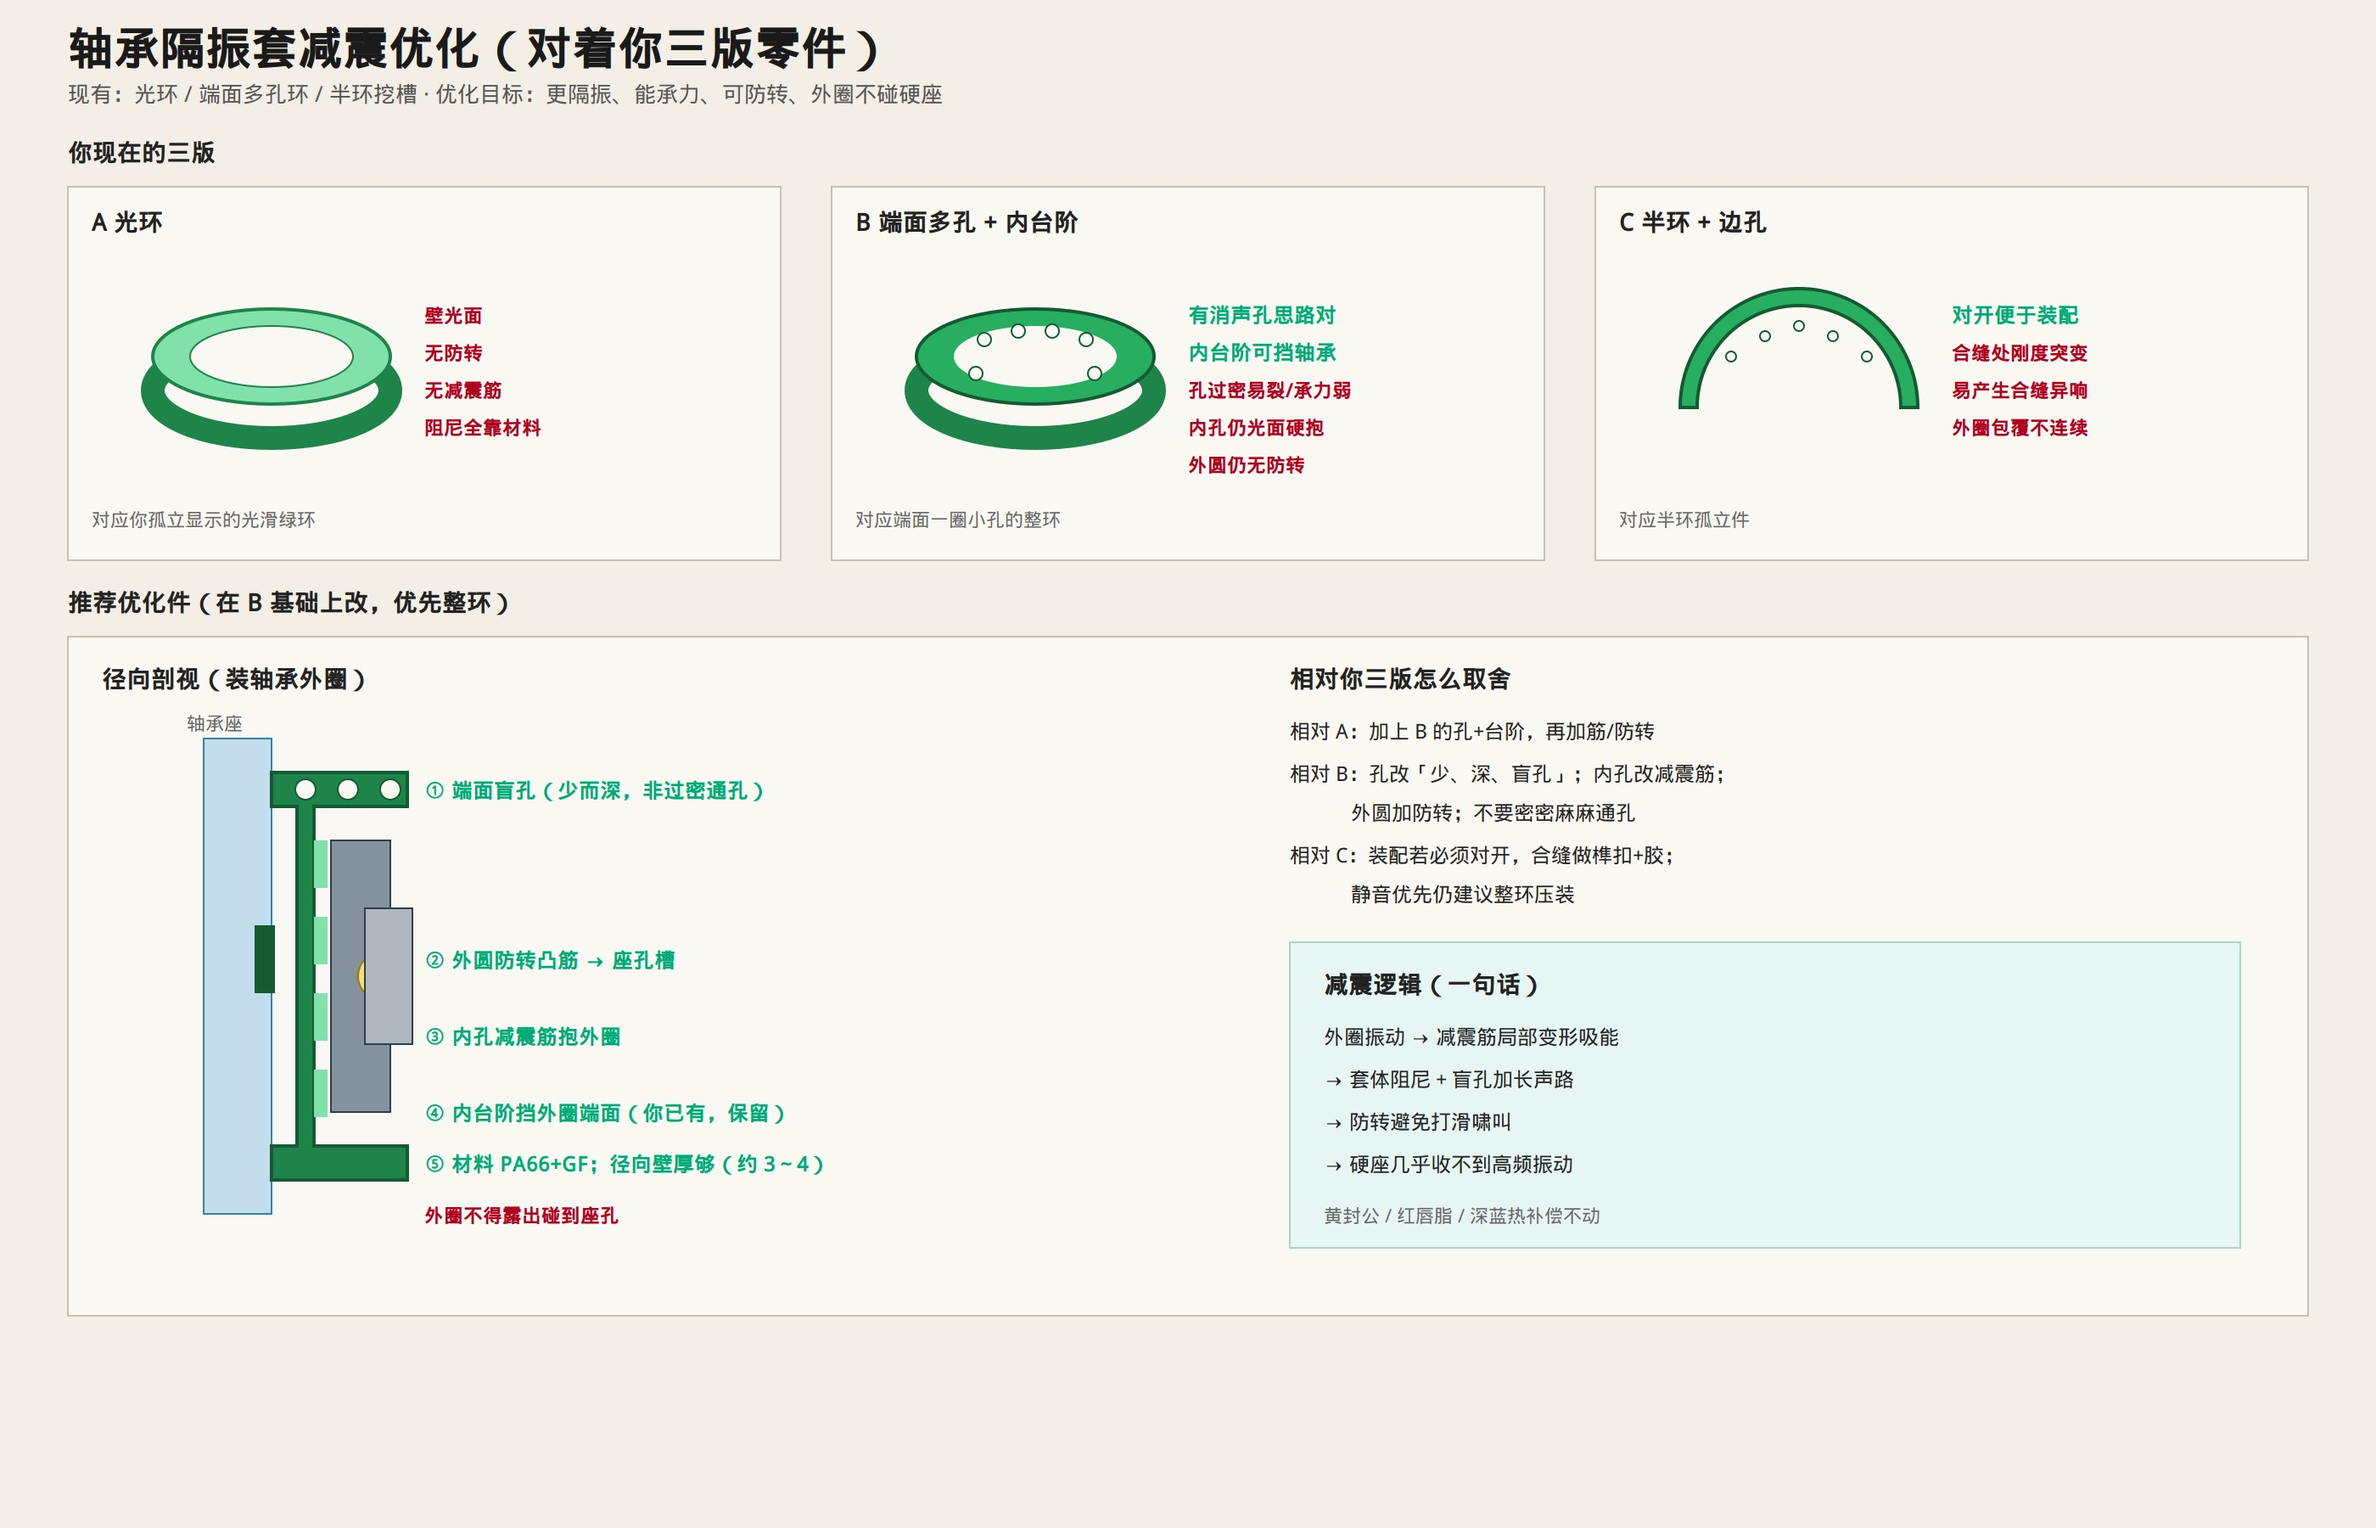
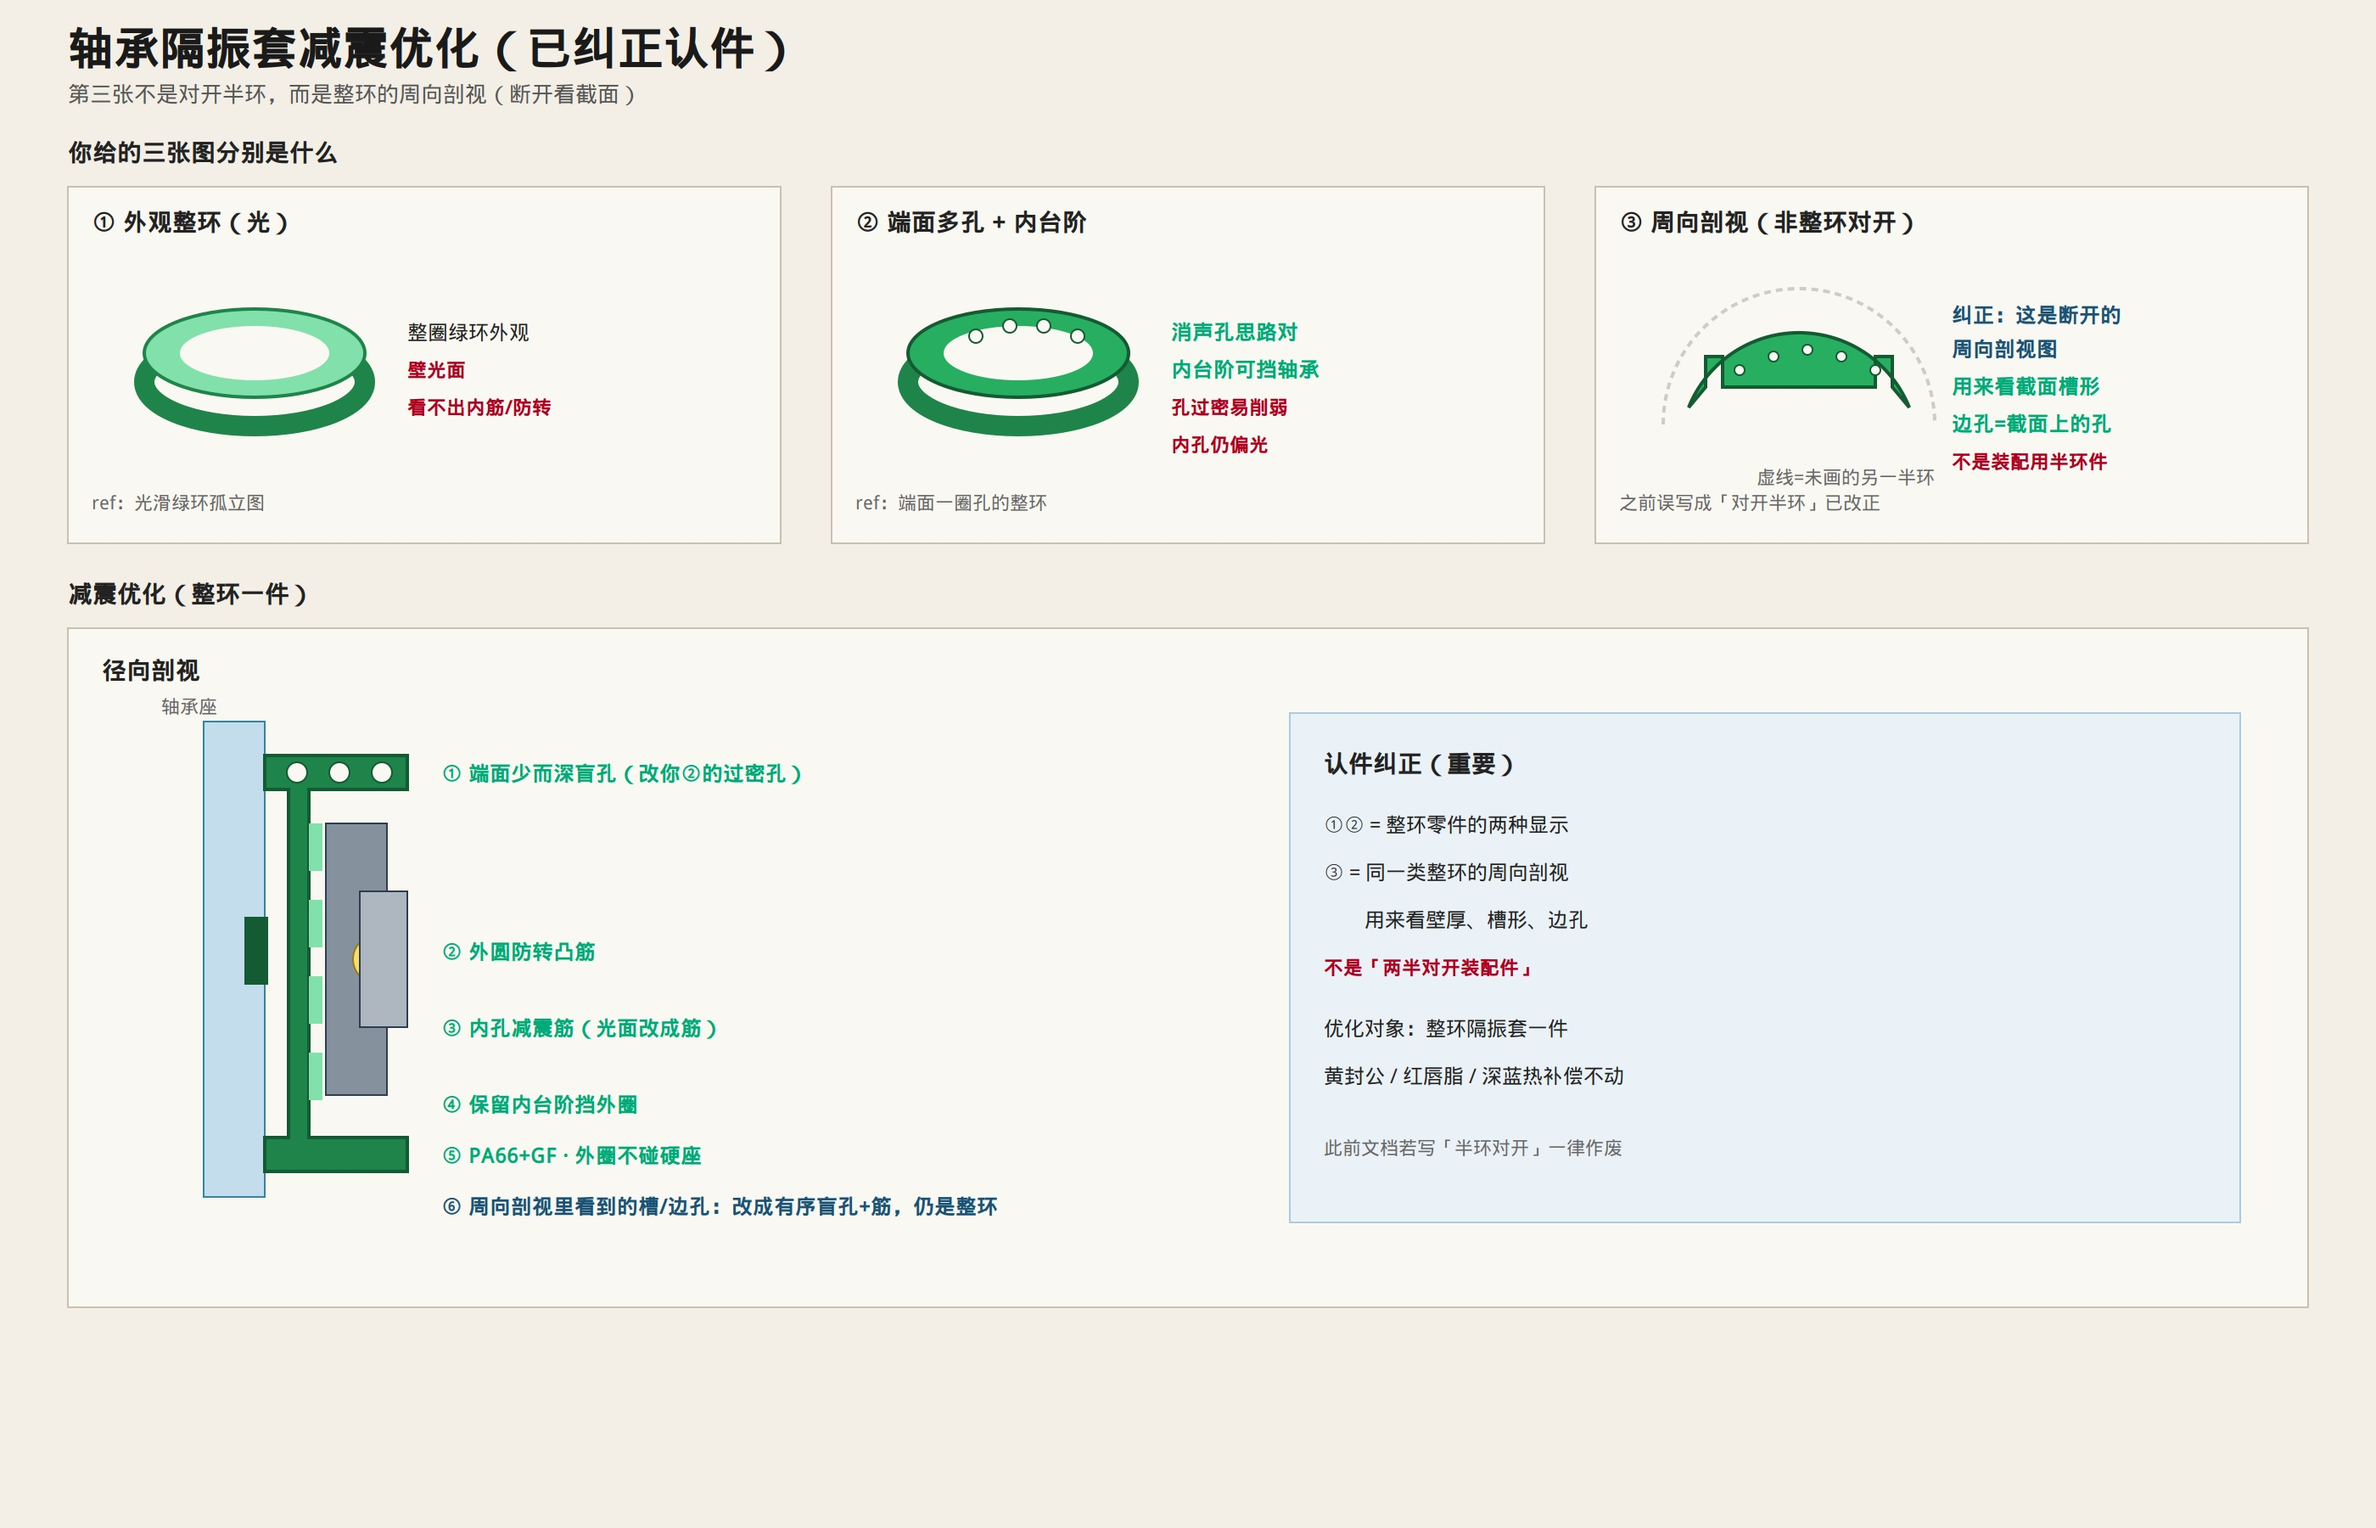
docs(silent-idler): correct isolator third view as circumferential section
The arc view is a cut section of the full ring, not a split half
for assembly; update optimize schematic and notes accordingly.

diff --git a/docs/silent-idler/ISOLATOR_OPTIMIZE.md b/docs/silent-idler/ISOLATOR_OPTIMIZE.md
@@ -1,42 +1,37 @@
 # 轴承隔振套减震优化
 
-> 对着你孤立显示的三版绿件：光环、端面多孔环、半环。  
-> 原图：[`ref-isolator-v2-plain.jpg`](./figures/ref-isolator-v2-plain.jpg) · [`ref-isolator-v1-holes.jpg`](./figures/ref-isolator-v1-holes.jpg) · [`ref-isolator-v3-half.jpg`](./figures/ref-isolator-v3-half.jpg)
+> 对着你孤立显示的绿套零件。  
+> **纠正：** 第三张不是「对开半环」，而是**整环的周向剖视（断开看截面）**。  
+> 原图：[`ref-isolator-v2-plain.jpg`](./figures/ref-isolator-v2-plain.jpg) · [`ref-isolator-v1-holes.jpg`](./figures/ref-isolator-v1-holes.jpg) · [`ref-isolator-v3-half.jpg`](./figures/ref-isolator-v3-half.jpg)（周向剖视）
 
 ![隔振套减震优化](./figures/31-isolator-damping-optimize.jpg)
 
 ---
 
-## 你三版各自怎样
+## 三张图分别是什么
 
-| 版 | 形态 | 优点 | 不足 |
-|----|------|------|------|
-| **A 光环** | 光滑整环 | 简单、承力匀 | 无结构减震，全靠材料 |
-| **B 多孔+内台阶** | 端面一圈孔，内有台阶 | **消声孔思路对**；台阶可挡轴承 | 孔过密易裂、削弱承力；内孔光面；外圆无防转 |
-| **C 半环** | 对开 + 边孔 | 好装配 | 合缝刚度突变，易合缝异响，包覆不连续 |
-
----
-
-## 推荐：在 B 上优化成整环减震套
-
-```text
-① 端面：少而深的盲孔（消声腔）——保留你 B 的思路，去掉过密通孔
-② 外圆：防转凸筋 → 轴承座槽（防打滑啸叫）
-③ 内孔：周向减震筋抱轴承外圈（局部变形吸振）
-④ 内台阶：保留（轴向挡住外圈）
-⑤ 材料：PA66+GF；径向壁厚约 3～4（按轴承外径定）
-⑥ 禁忌：外圈任何一点露出来碰轴承座硬孔
-```
-
-半环（C）只有装配逼不得已再用，合缝要榫扣锁死；**静音优先整环压装**。
+| 图 | 实际是什么 | 说明 |
+|----|------------|------|
+| ① 光环 | 整环外观 | 壁光面，结构减震特征少 |
+| ② 端面多孔 + 内台阶 | 整环外观/端视 | 消声孔思路对；孔易过密；内孔偏光 |
+| ③ 弧形断开件 | **整环周向剖视** | 用来看截面槽形、边孔；**不是装配用两半** |
 
 ---
 
-## 减震路径
+## 减震怎么优化（整环一件）
+
+以②为主，结合③剖视看到的槽/孔信息：
 
 ```text
-轴承外圈振动 → 减震筋变形吸能 → 套体阻尼 + 盲孔耗声 → 轴承座（已削弱）
+① 端面：少而深的盲孔（改过密小孔）
+② 外圆：防转凸筋 → 轴承座槽
+③ 内孔：周向减震筋抱轴承外圈
+④ 内台阶：保留，挡外圈
+⑤ 材料：PA66+GF；外圈不得碰硬座
 ```
 
-黄封公、红唇满脂、深蓝热补偿先不动。  
-总装认件见 [`COMPLETE_BEARING.md`](./COMPLETE_BEARING.md)。
+```text
+外圈振动 → 减震筋吸能 → 套体阻尼 + 盲孔耗声 → 轴承座（削弱）
+```
+
+黄封公、红唇满脂、深蓝热补偿先不动。
